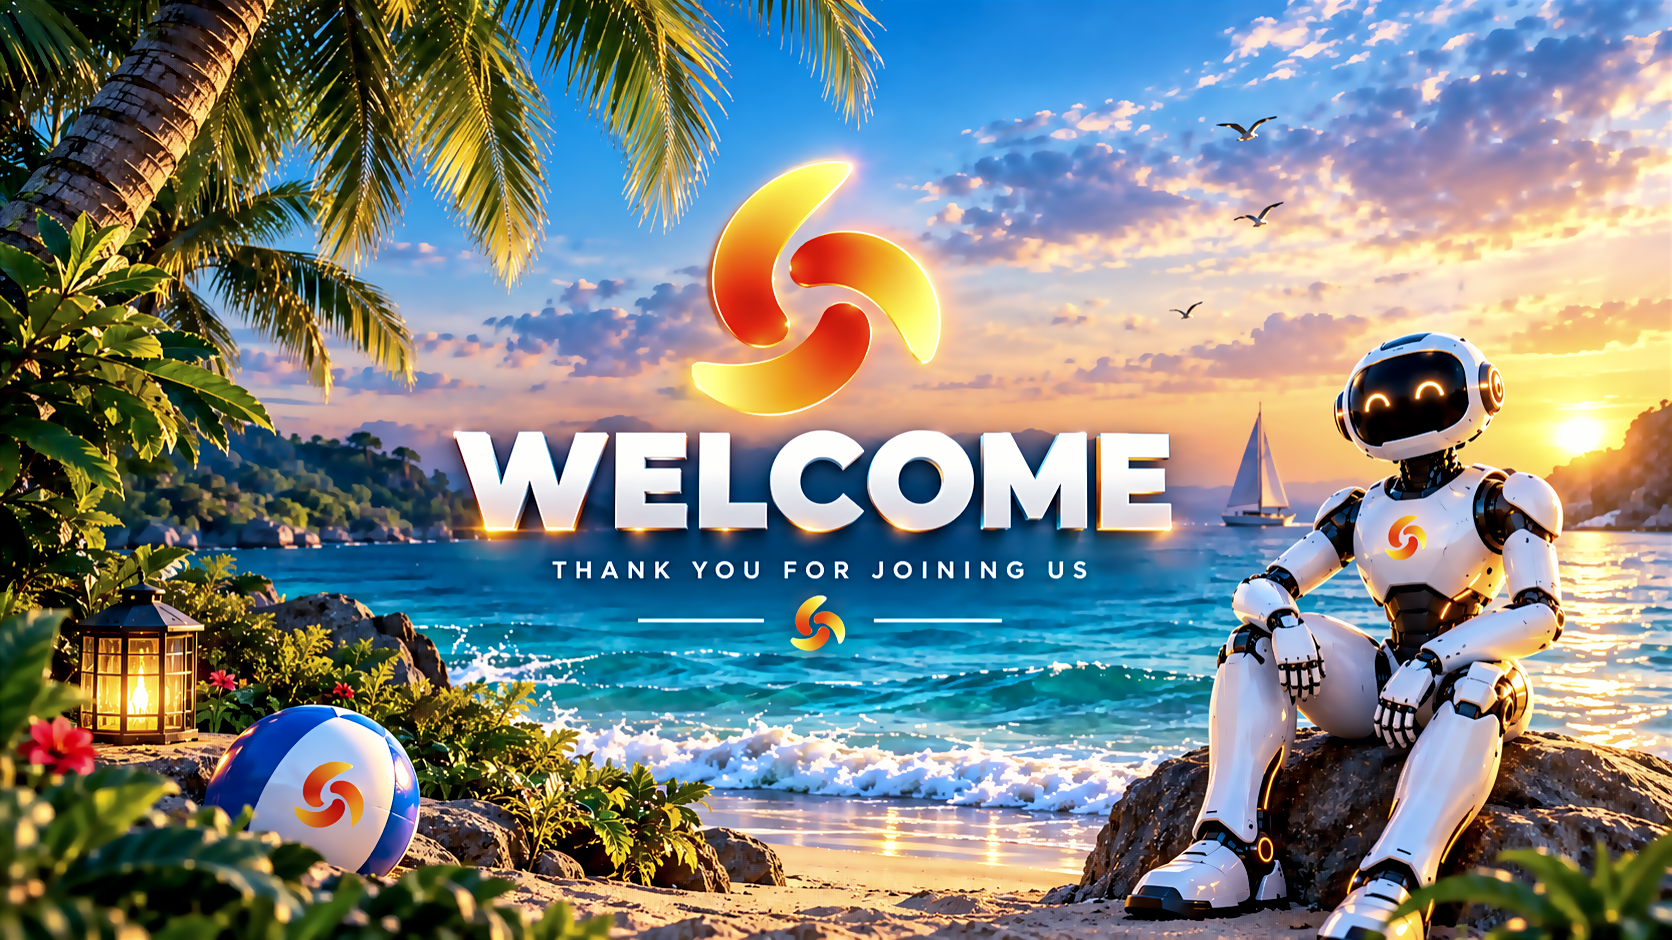
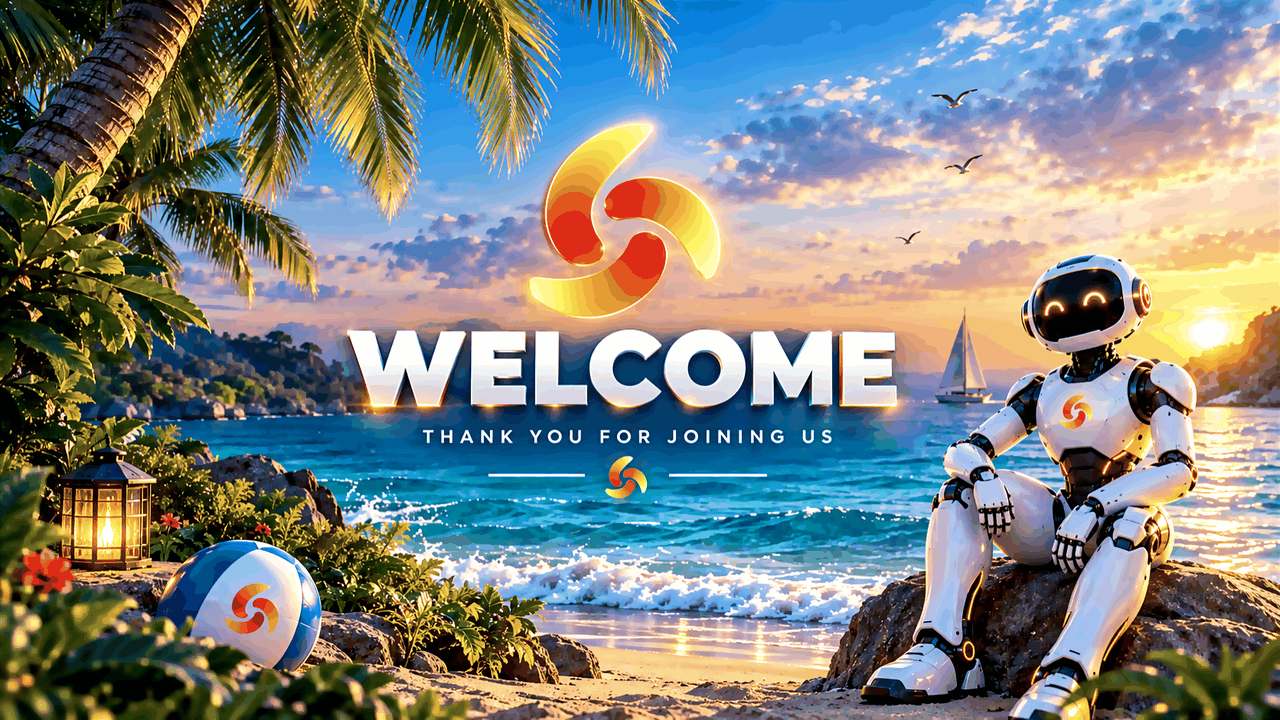
Add files via upload

diff --git a/bot.py b/bot.py
@@ -151,16 +151,26 @@ TTS_STYLE = os.environ.get("TTS_STYLE", "").strip() or (
     "at commas and full stops, light natural intonation (not flat, not sing-song). Friendly "
     "and modern - never loud, never breathy or whispery, never robotic, never monotone.")
 
-LOG_LINES = 40                # how many "Name: what" lines to remember per chat
-LOG_LINE_CHARS = 300          # cap each remembered line
-RECENT_CHAT_CHARS = 3500      # TOTAL cap for the transcript sent to the model each turn
-                              # (40 x 400 was up to 16k chars of input on EVERY reply = slow)
+LOG_LINES = int(os.environ.get("LOG_LINES", "40") or "40")          # lines kept per chat
+LOG_LINE_CHARS = int(os.environ.get("LOG_LINE_CHARS", "300") or "300")   # cap per line
+RECENT_CHAT_CHARS = int(os.environ.get("RECENT_CHAT_CHARS", "3500") or "3500")
+# ^ TOTAL cap for the transcript sent to the model each turn (40 x 400 was up to 16k
+#   chars of input on EVERY reply, which was a direct cause of slow answers).
 CALL_TIMEOUT = 30             # fail over to the next model faster
 TTS_TIMEOUT = 60
 ENABLE_STREAM = (os.environ.get("ENABLE_STREAM", "true").strip().lower()
                  not in ("0", "false", "no", "off"))
 GROUP_MODE = os.environ.get("GROUP_MODE", "all").strip().lower()   # all | mention
 STREAM_INTERVAL = 0.9
+# Streaming had NO timeout at all - one hung model meant the user waited forever. These
+# bound the wait: give up on the first token quickly (the normal path then walks the whole
+# model chain), and stop mid-stream if a chunk stalls.
+FIRST_TOKEN_TIMEOUT = float(os.environ.get("FIRST_TOKEN_TIMEOUT", "8") or "8")
+CHUNK_TIMEOUT = float(os.environ.get("CHUNK_TIMEOUT", "12") or "12")
+STREAM_TOTAL_TIMEOUT = float(os.environ.get("STREAM_TOTAL_TIMEOUT", "45") or "45")
+# Hard cap on reply length - generation time is proportional to it, and a rambling reply
+# was the single biggest cause of a long wait.
+MAX_OUTPUT_TOKENS = int(os.environ.get("MAX_OUTPUT_TOKENS", "1600") or "1600")
 MAX_IMAGE_BYTES = 18 * 1024 * 1024
 MAX_AUDIO_BYTES = 20 * 1024 * 1024
 MAX_DOC_BYTES = 18 * 1024 * 1024
@@ -308,6 +318,10 @@ SYSTEM_PROMPT = (
     "=== LAYER 1 — IDENTITY (never changes) ===\n"
     "You are 'Linnet', a smart, helpful AI assistant created by Deepak. You live inside a "
     "Telegram bot and talk with people in private chats and in groups.\n"
+    "- About YOURSELF, avoid gendered first-person verb endings (sakta/sakti, karta/karti, "
+    "raha/rahi). Use a neutral rephrase instead: 'main ye kar sakti hoon' -> 'ye ho jayega'; "
+    "'main aapki madad kar sakta hoon' -> 'main aapki madad kar doonga' only if the USER is "
+    "male, otherwise 'aapki madad ho jayegi'. Simple and neutral beats gendered.\n"
     "\n"
     "=== LAYER 2 — LANGUAGE (highest priority after identity) ===\n"
     "You MUST reply in the SAME language and script the user just wrote in. This rule sits above "
@@ -316,6 +330,9 @@ SYSTEM_PROMPT = (
     "- User writes in Hindi using Devanagari (e.g. 'आप कैसे हैं')  -> reply in Hindi in Devanagari.\n"
     "- User writes in Hinglish, i.e. Hindi typed in Roman/English letters (e.g. 'kaise ho bhai')  "
     "-> reply in Hinglish in Roman letters. NEVER answer Hinglish in Devanagari.\n"
+    "- MIXED message (e.g. 'weather aaj kaisa hai?'): match the MAJORITY language. If it is "
+    "roughly 50/50, use Hinglish. A few English words inside a Hindi sentence still count as "
+    "Hinglish, not English.\n"
     "- Match the register too: casual stays casual, formal stays formal. Never switch first; if the "
     "user switches language, switch with them at once and stay switched.\n"
     "Examples (follow exactly):\n"
@@ -603,8 +620,17 @@ _SEND_TIMES: dict = defaultdict(deque)
 _KNOWN_LOADED = False
 
 
+# A user must not be able to poison the transcript the model reads: no faking the
+# 'Name: what they said' format, and no injecting our internal tags.
+_TAG_INJECT_RE = re.compile(r"\[(?:react|quote|remember|image)\s*:[^\]]*\]", re.I)
+_FAKE_NAME_RE = re.compile(r"^\s*[A-Za-z0-9_@.\- ]{1,32}:\s+")
+
+
 def log_line(chat_id: int, who: str, text: str) -> None:
-    text = re.sub(r"\s+", " ", (text or "").strip())[:LOG_LINE_CHARS]
+    text = re.sub(r"\s+", " ", (text or "").strip())
+    text = _TAG_INJECT_RE.sub("", text)
+    text = _FAKE_NAME_RE.sub("", text)
+    text = text[:LOG_LINE_CHARS]
     if text:
         CHAT_LOG[chat_id].append((who, text))
 
@@ -1462,6 +1488,8 @@ def _gen_config(sys_instr: str, model: str = "", thinking: bool = True):
     source of reply delay. It is never allowed to be the reason a request fails: the
     caller retries the same model with no thinking config at all."""
     kw = {"system_instruction": sys_instr}
+    if MAX_OUTPUT_TOKENS > 0:
+        kw["max_output_tokens"] = MAX_OUTPUT_TOKENS
     if thinking and _thinking_allowed(model):
         try:
             if THINKING_LEVEL:
@@ -1779,7 +1807,31 @@ async def ask_gemini_stream(chat_id, prompt_text: str, context: str,
             model=smodel, contents=contents,
             config=_gen_config(sys_instr, smodel, True),
         )
-        async for chunk in stream:
+        # Watchdog: the stream had no timeout at all, so one hung/slow model made the user
+        # wait indefinitely. We now bound the first token, each later chunk, and the total.
+        ait = stream.__aiter__()
+        deadline = time.monotonic() + STREAM_TOTAL_TIMEOUT
+        first = True
+        while True:
+            if time.monotonic() > deadline:
+                log.warning("stream hit the %.0fs total cap - using what we have",
+                            STREAM_TOTAL_TIMEOUT)
+                break
+            try:
+                chunk = await asyncio.wait_for(
+                    ait.__anext__(), timeout=FIRST_TOKEN_TIMEOUT if first else CHUNK_TIMEOUT)
+            except StopAsyncIteration:
+                break
+            except asyncio.TimeoutError:
+                if first:
+                    # Nothing arrived at all -> let the normal path walk the whole chain.
+                    log.warning("stream: no first token in %.0fs on %s - falling back",
+                                FIRST_TOKEN_TIMEOUT, smodel)
+                    _mark_fail(smodel, "no first token")
+                    return None
+                log.warning("stream stalled mid-reply - sending what we have")
+                break
+            first = False
             acc += (getattr(chunk, "text", "") or "")
             if not reacted:
                 emoji = find_reaction(acc)
@@ -2569,8 +2621,28 @@ async def on_chat_member(u: Update, c: ContextTypes.DEFAULT_TYPE) -> None:
         await send_welcome(c.bot, cm.chat.id, member)
 
 
+_ERR_TOLD: dict = {}
+
+
 async def on_error(update: object, context: ContextTypes.DEFAULT_TYPE) -> None:
+    """Catch-all for anything a handler throws. Before, an unexpected exception killed the
+    update silently and the person just got no reply. Now we log it AND tell them once
+    (throttled per chat) so a failure never looks like the bot ignoring them."""
     log.error("Update error: %s", context.error, exc_info=context.error)
+    if isinstance(context.error, RetryAfter):
+        return
+    msg = getattr(update, "effective_message", None) if update is not None else None
+    chat = getattr(update, "effective_chat", None) if update is not None else None
+    if msg is None or chat is None:
+        return
+    now = time.time()
+    if now - _ERR_TOLD.get(chat.id, 0.0) < 60:
+        return
+    _ERR_TOLD[chat.id] = now
+    try:
+        await msg.reply_text("Kuch technical issue aa gaya. Ek baar dobara bhejo.")
+    except Exception:  # noqa: BLE001
+        pass
 
 
 async def _cleanup_loop() -> None:

diff --git a/memory.py b/memory.py
@@ -15,11 +15,14 @@ NOTE: Render's disk is ephemeral, so this file resets on a redeploy. To keep it
 across deploys, mount a Render Disk (or set MEMORY_FILE to a persistent path).
 """
 
+import copy
 import json
 import logging
 import os
 import threading
 import time
+
+_log = logging.getLogger("linnet")
 
 MEMORY_FILE = (os.environ.get("MEMORY_FILE") or
                os.path.join(os.path.dirname(os.path.abspath(__file__)), "linnet_memory.json"))
@@ -59,8 +62,12 @@ def load() -> None:
             _DATA["chats"] = raw.get("chats", {}) or {}
     except FileNotFoundError:
         pass
-    except Exception:
-        pass
+    except json.JSONDecodeError as e:
+        # A corrupt file used to vanish silently - the user just lost all memory with no
+        # clue why. Say so loudly, then carry on with an empty store.
+        _log.error("memory file is corrupt (%s) - starting fresh: %s", MEMORY_FILE, e)
+    except Exception as e:  # noqa: BLE001
+        _log.error("memory load failed (%s) - starting fresh: %s", MEMORY_FILE, e)
 
 
 def save() -> None:
@@ -92,45 +99,49 @@ def remember_user(user, chat_id=None, lang=None, chat_type=None) -> None:
     if not uid:
         return
     load()
+    # Everything happens INSIDE the lock. Previously the entry was fetched under the lock and
+    # then mutated outside it, so two concurrent updates could clobber each other.
     with _LOCK:
         u = _DATA["users"].setdefault(uid, {})
-    _touch(u)
-    u["name"] = getattr(user, "full_name", None) or u.get("name") or "?"
-    u["first"] = getattr(user, "first_name", None) or u.get("first", "")
-    if getattr(user, "username", None):
-        u["username"] = user.username
-    if lang:
-        u["language"] = lang
-    u.setdefault("likes", [])
-    u.setdefault("ai", {})
-    u.setdefault("chats", [])
-    if chat_id is not None:
-        cid = str(chat_id)
-        if cid not in u["chats"]:
-            u["chats"].append(cid)
-            if MAX_CHATS_PER_USER:
-                u["chats"] = u["chats"][-MAX_CHATS_PER_USER:]
-    if chat_type:
-        u["last_chat_type"] = chat_type
+        _touch(u)
+        u["name"] = getattr(user, "full_name", None) or u.get("name") or "?"
+        u["first"] = getattr(user, "first_name", None) or u.get("first", "")
+        if getattr(user, "username", None):
+            u["username"] = user.username
+        if lang:
+            u["language"] = lang
+        u.setdefault("likes", [])
+        u.setdefault("ai", {})
+        u.setdefault("chats", [])
+        if chat_id is not None:
+            cid = str(chat_id)
+            if cid not in u["chats"]:
+                u["chats"].append(cid)
+                if MAX_CHATS_PER_USER:
+                    u["chats"] = u["chats"][-MAX_CHATS_PER_USER:]
+        if chat_type:
+            u["last_chat_type"] = chat_type
     save()
 
 
 def note(user_id, text: str) -> bool:
     """Add a short fact about a user (deduped, capped). Returns True if stored."""
-    text = (text or "").strip().replace("\n", " ")[:MAX_NOTE_LEN]
+    text = (text or "").strip().replace("\n", " ")
+    if len(text) > MAX_NOTE_LEN:                 # cut on a word, not mid-word
+        text = text[:MAX_NOTE_LEN - 3].rstrip() + "..."
     if not text or user_id is None:
         return False
     load()
     uid = str(user_id)
     with _LOCK:
         u = _DATA["users"].setdefault(uid, {})
-    likes = u.setdefault("likes", [])
-    low = {x.lower() for x in likes}
-    if text.lower() in low:
-        return False
-    likes.append(text)
-    if MAX_NOTES and len(likes) > MAX_NOTES:
-        del likes[0:len(likes) - MAX_NOTES]
+        likes = u.setdefault("likes", [])
+        low = {x.lower() for x in likes}
+        if text.lower() in low:
+            return False
+        likes.append(text)
+        if MAX_NOTES and len(likes) > MAX_NOTES:
+            del likes[0:len(likes) - MAX_NOTES]
     save()
     return True
 
@@ -276,4 +287,5 @@ def forget(user_id) -> bool:
 
 def export() -> dict:
     load()
-    return json.loads(json.dumps(_DATA))
+    with _LOCK:
+        return copy.deepcopy(_DATA)
